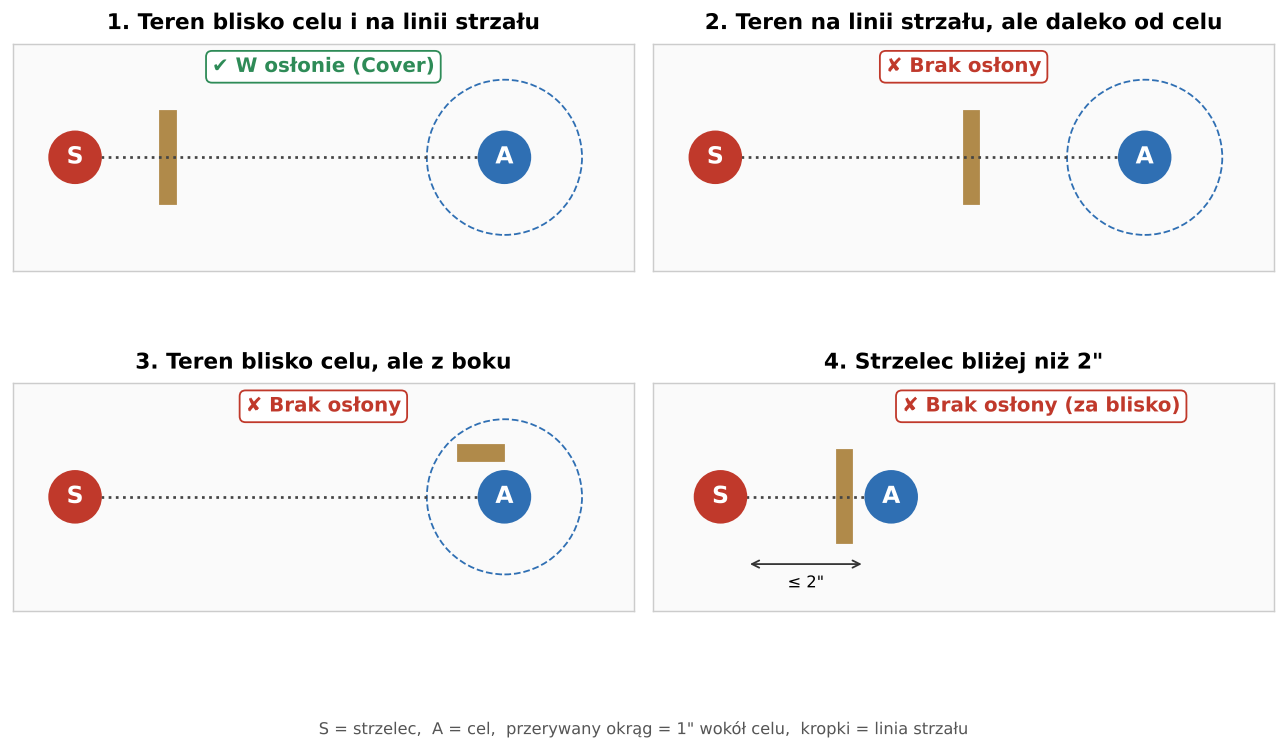
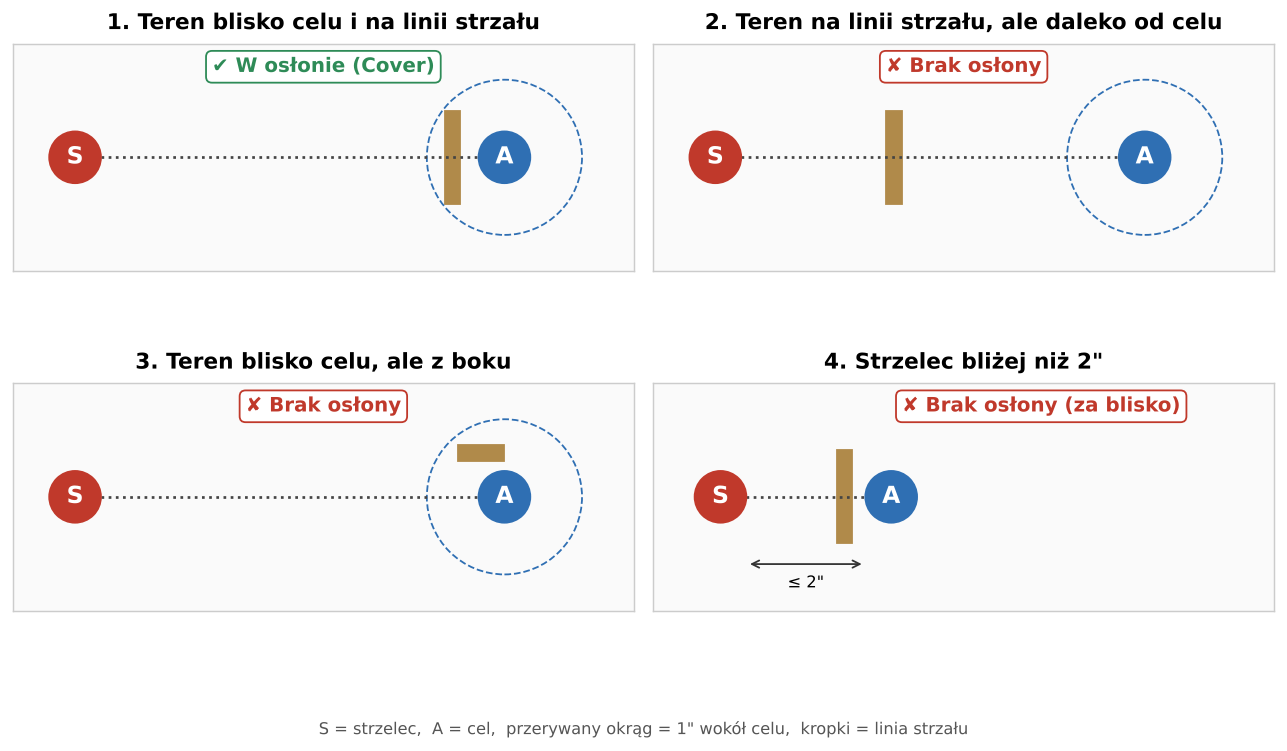
Audyt treści: tabela Kill Op, Drone Controller i Incursor Sergeant, poprawki porad
- 02_misje: pełna tabela poziomów eliminacji (Core Book s. 84) z przykładem
- Pathfinders: Drone Controller wraca na listę wyboru; premie ze znaczników tylko z broni z karty
- Phobos: Incursor Sergeant wraca jako dowódca (statystyki i broń)
- Fellgor: Breach obok Operate Hatch w wyjątkach
- Poprawione wskazówki w zasadach podstawowych, misjach i Kommandos
- AGENTS.md: opis oficjalnych zdjęć GW (tylko wiki), aktualny backlog
- .gitignore: wiki/ i prywatne skrypty

diff --git a/scripts/diagrams_core.py b/scripts/diagrams_core.py
@@ -71,9 +71,9 @@ save(fig, "01_control_range.png")
 # 2. COVER - 4 przypadki ----------------------------------------------------
 fig, axs = plt.subplots(2, 2, figsize=(10, 6.2))
 cases = [
-    ("1. Teren blisko celu i na linii strzału", 2.85, 2.2, True,
+    ("1. Teren blisko celu i na linii strzału", 8.35, 2.2, True,
      "W osłonie (Cover)"),
-    ("2. Teren na linii strzału, ale daleko od celu", 6.0, 2.2, False,
+    ("2. Teren na linii strzału, ale daleko od celu", 4.5, 2.2, False,
      "Brak osłony"),
     ("3. Teren blisko celu, ale z boku", 8.6, 0.25, False, "Brak osłony"),
     ("4. Strzelec bliżej niż 2\"", 2.85, 2.2, False,

diff --git a/AGENTS.md b/AGENTS.md
@@ -58,7 +58,7 @@ existing files use single-word names).
 ## Accuracy rules (must follow)
 
 1. **Never invent numbers.** If a value can't be confirmed from a source, leave a blank / say "sprawdź na
-   karcie". Example: the Kill Op grade table in `02_misje.md` is intentionally mostly empty.
+   karcie".
 2. **Write research notes first** into `research/` (English, terse), then write the Polish page from them.
    Cross-check every weapon/stat row in the page against the notes before finishing.
 3. **Source priority:** official GW PDFs / Kill Team app > Wahapedia (`wahapedia.ru/kill-team3/…`) >
@@ -72,7 +72,6 @@ existing files use single-word names).
 - Ploy CP costs: handbook states "1 CP" everywhere (3rd-ed standard) — not verified per ploy.
 - Approved Ops 2025 Crit/Tac Op descriptions are reconstructed (full card text is paywalled); some
   details deferred to "sprawdź na karcie" (Plant Banner distance, Track Enemy TP4 scoring, Rout TP limits).
-- Kill Op grade table: only the 8-enemy row (2 → grade 1, 3 → grade 2) is filled.
 
 ## Images
 
@@ -114,6 +113,12 @@ upload assets. The script is idempotent (unchanged pages are skipped). What it d
   unimplemented (pages are looked up by the cyrb53 hash of their path); Cloudflare blocks Python's default
   User-Agent. API reference: `https://kt.litwiniuk.net/_api` (Swagger), spec at `/_api/json`.
 - The theme lives in `wiki/` (see `wiki/README.md`); PATs can't set it, so it's applied in Admin → Theme.
+- **Official GW photos are wiki-only** (private wiki; this repo is public, so they never go into
+  `podrecznik/` or git). `wiki/official/manifest.json` + `wiki/official/parts/*.json` list image URLs per
+  page heading (team photo under "1. … w skrócie", one cut-out per operative H3, killzone photos); the
+  publisher downloads them (cache in `wiki/official/cache/`) and inserts them under those headings.
+  Sources: warhammer40000.com/games/faction/… pages (operative cut-outs) and Warhammer Community articles.
+  New team page → add its entries; a renamed heading breaks its image (the publisher warns).
 - The sidebar (site-wide menu) is maintained by hand in the wiki; the Oddziały submenu lists team pages.
 - Keep the source files free of wiki-specific syntax; do the conversion in the publish script.
 
@@ -127,14 +132,14 @@ Preview only.
 - All 17 team pages written (Nov 2026). Next: re-check each team page against the app when GW publishes a new
   balance update (each page states its rules version at the top).
 - Team-page items inferred or unverified (check in the app / physical cards):
-  - Wrecka Krew: Tanked Up in counteraction + Reckless Temperament Engage crit clause — follows Wahapedia wording.
   - Wrecka Krew: whether Demolisha's Detonate also damages the Demolisha itself.
   - Canoptek Circle: ranged/melee type of weapons inferred (isolator & part matter = ranged per Goonhammer).
   - Goremongers: Inciter "dual autopistols (point-blank)" treated as its melee profile (no Range, no other melee weapon).
   - Sanctifiers: Missionary appears twice in the selection list — unclear if two Missionaries are allowed.
   - Spectre Squad: Gunner melee listed as fists in the list but gun butt on the datacard (same stats).
-  - Pathfinders: Drone Controller struck out of selection; Phobos: Incursor Sergeant struck out (Oct '26 versions).
   - Tactics for Spectre, Vespid, Farstalker, Pathfinders, Battleclade, Goremongers, Sanctifiers, Celestian Insidiants,
     Murderwing are own synthesis from rules (no current review used).
-- Fill Kill Op table and verify ploy CP costs from the physical cards/app.
+- Verify ploy CP costs from the physical cards/app. (Kill Op table filled 23 Nov 2026 from Core Book p.84.)
+- Lesson from the Nov 2026 audit: Wahapedia fetches can misreport "struck through" operatives — confirm selection
+  changes against the official GW PDF before removing an operative.
 - Optionally replace the matplotlib diagrams 01–12 with nicer ones (Part B of `prompty_obrazki.md`).

diff --git a/podrecznik/02_misje.md b/podrecznik/02_misje.md
@@ -142,7 +142,7 @@ Każdą kartę zagrywa się jeden raz. Karty, których nie użyjesz, możesz trz
 
 > 💡 **Wskazówka:** Inicjatywa jest najważniejsza w rundach 2–4, bo wtedy liczy się, kto pierwszy dobiegnie do celu albo kto pierwszy strzeli. Nie wydawaj wszystkich kart w pierwszej rundzie.
 
-> 💡 **Wskazówka:** Inicjatywa to nie zawsze zaleta. Gracz bez inicjatywy dostaje **2 CP** zamiast 1, a jego ostatni żołnierz rusza się jako ostatni w rundzie — może zająć cel, gdy przeciwnik nie ma już czym odpowiedzieć.
+> 💡 **Wskazówka:** Inicjatywa to nie zawsze zaleta. Od drugiej rundy gracz bez inicjatywy dostaje **2 CP** zamiast 1. Jeśli oba oddziały mają tyle samo gotowych żołnierzy, to on aktywuje ostatniego żołnierza w rundzie — i może zająć cel, gdy przeciwnik nie ma już czym odpowiedzieć. Ale jeśli masz **mniej** żołnierzy niż przeciwnik, skończą ci się aktywacje wcześniej i ostatni ruch i tak należy do niego.
 
 ---
 
@@ -185,22 +185,26 @@ Ile wrogów trzeba pokonać, żeby wejść na kolejny poziom, zależy od tego, *
 
 ### Tabela poziomów eliminacji
 
-Dokładna tabela jest na karcie **Kill Op** w talii Approved Ops i w aplikacji Kill Team. Przepisz ją tutaj, żeby mieć ją zawsze pod ręką:
+Wybierz wiersz według tego, **ilu żołnierzy miał przeciwnik na początku bitwy**. Liczby w tabeli mówią, ilu wrogów musisz **łącznie** pokonać, żeby wejść na dany poziom.
 
 | Wrogów na początku | Poziom 1 | Poziom 2 | Poziom 3 | Poziom 4 | Poziom 5 |
 |---|---|---|---|---|---|
-| 5 | | | | | |
-| 6 | | | | | |
-| 7 | | | | | |
-| 8 | 2 | 3 | | | |
-| 9 | | | | | |
-| 10 | | | | | |
-| 11 | | | | | |
-| 12 | | | | | |
-| 13 | | | | | |
-| 14 | | | | | |
+| 5 | 1 | 2 | 3 | 4 | 5 |
+| 6 | 1 | 2 | 4 | 5 | 6 |
+| 7 | 1 | 3 | 4 | 6 | 7 |
+| 8 | 2 | 3 | 5 | 6 | 8 |
+| 9 | 2 | 4 | 5 | 7 | 9 |
+| 10 | 2 | 4 | 6 | 8 | 10 |
+| 11 | 2 | 4 | 7 | 9 | 11 |
+| 12 | 2 | 5 | 7 | 10 | 12 |
+| 13 | 3 | 5 | 8 | 10 | 13 |
+| 14 | 3 | 6 | 8 | 11 | 14 |
 
-W tabeli są wpisane tylko wartości potwierdzone w oficjalnym przykładzie: przy 8 wrogach poziom 1 osiągasz po 2 eliminacjach, a poziom 2 po 3. Resztę uzupełnij z karty.
+> **Przykład:** Grasz przeciwko 6 Legionistom (wiersz „6”). Pokonujesz pierwszego — wchodzisz na poziom 1 (+1 VP). Drugiego — poziom 2 (+1 VP). Trzeci nic nie daje, bo poziom 3 wymaga **4** pokonanych. Czwarty — poziom 3 (+1 VP).
+
+> ⚠ **Uwaga:** Jeśli jedną akcją pokonasz kilku wrogów (np. wybuchem), możesz przeskoczyć od razu kilka poziomów. Dostajesz wtedy 1 VP za **każdy** nowy poziom.
+
+Tabela pochodzi z podręcznika Kill Team (Core Book, misje Preliminary Ops, s. 84). Approved Ops używa tej samej zasady i tego samego przykładu (8 wrogów: poziom 1 przy 2 pokonanych, poziom 2 przy 3).
 
 > 💡 **Wskazówka:** Kill Op to jedyna operacja, w której przeciwnik może ci odebrać szansę na punkty, po prostu chowając się. Dobrze ukryty oddział z rozkazem Conceal jest bardzo trudny do zabicia.
 
@@ -455,7 +459,7 @@ Ola gra oddziałem z 10 żołnierzami. Kuba gra oddziałem z 6 elitarnymi wojown
 
 **Wygrywa Ola 15:11**, choć pokonała mniej wrogów niż Kuba.
 
-> Liczby w tym przykładzie są wymyślone, żeby pokazać sposób liczenia. W prawdziwej grze poziomy eliminacji sprawdzasz w tabeli z karty Kill Op.
+> Liczby w tym przykładzie są wymyślone, żeby pokazać sposób liczenia. W prawdziwej grze poziomy eliminacji sprawdzasz w [tabeli poziomów eliminacji](#tabela-poziomów-eliminacji).
 
 ---
 

diff --git a/podrecznik/07_oddzialy/pathfinders.md b/podrecznik/07_oddzialy/pathfinders.md
@@ -4,7 +4,7 @@
 
 [← Lista oddziałów](README.md) · [Spis podręcznika](../README.md)
 
-Zasady według oficjalnego dokumentu z października 2026. W tej wersji **Drone Controller jest skreślony z listy wyboru** — nie można go wziąć.
+Zasady według oficjalnego dokumentu z października 2026.
 
 ---
 
@@ -54,6 +54,7 @@ Zasady według oficjalnego dokumentu z października 2026. W tej wersji **Drone 
 | Weapons Expert (Ekspert od broni) — z *ion rifle* **albo** *rail rifle* | do 2 |
 | Blooded (Weteran) | 1 |
 | Transpectral Interference (Zakłócacz) | 1 |
+| Drone Controller (Operator dronów) | 1 |
 | Assault Grenadier (Grenadier szturmowy) | 1 |
 | Comms Specialist (Łącznościowiec) | 1 |
 | Medical Technician (Medyk) | 1 |
@@ -81,7 +82,7 @@ Większość Pathfinderów ma akcję:
 
 > ⚠ **Uwaga:** W jednej aktywacji żołnierz nie może podświetlić **jednego** wroga i strzelić do **innego**. (Wyjątek: dron MB3.)
 
-**Co dają znaczniki?** Gdy twój Pathfinder strzela do wroga ze znacznikami, dostaje wszystkie premie do tej liczby:
+**Co dają znaczniki?** Gdy twój Pathfinder strzela do wroga ze znacznikami **z broni ze swojej karty**, dostaje wszystkie premie do tej liczby:
 
 | Znaczniki | Premia |
 |---|---|
@@ -188,6 +189,14 @@ Broń: *pulse carbine* i *gun butt*.
 | Bionic arm (Bioniczne ramię) | 3 | 4+ | 3/4 | — |
 
 **Veteran** (Weteran): w rundzie, w której wybrałeś *Mont'ka*, w swojej aktywacji może korzystać z *Kauyon* zamiast tego (i odwrotnie).
+
+### Drone Controller (Operator dronów)
+
+Broń: *pulse carbine* i *gun butt*.
+
+**Drone Controller** (Operator dronów): dopóki jest na stole, twoje drony mają **Move o 2" większy**, a zagrywka *Saviour Protocols* kosztuje **0 CP**.
+
+**REMOTE PILOT** (Zdalne sterowanie), 1 AP: wybierz twojego drona. Wykonuje on od razu **jedną darmową akcję**, ale nie może się w niej ruszyć dalej niż 2". Według karty ta akcja może pominąć ograniczenie, które akcje wolno wykonywać dronom. Operator może to zrobić kilka razy w aktywacji, ale ten sam dron nie wykona tej samej darmowej akcji dwa razy w jednej aktywacji. Nie w zasięgu kontroli wroga.
 
 ### Transpectral Interference (Zakłócacz)
 
@@ -390,10 +399,10 @@ Statystyki jak MV1. Ma tylko *ram*.
 Nie — chyba że to dron MB3.
 
 **Czy znaczniki dają premię każdemu strzelcowi?**
-Tak, każdemu twojemu Pathfinderowi, który strzela do tego wroga — poza granatem termojądrowym. Strzelec wyborowy (*Inertial Dampener*) nie dostaje premii do trafiania, ale pozostałe premie — tak.
+Tak, każdemu twojemu Pathfinderowi, który strzela do tego wroga **z broni ze swojej karty**. Nie dostają ich więc granaty ze sprzętu uniwersalnego (np. *krak grenade*) ani granat termojądrowy (wyjątek zapisany na jego karcie). Strzelec wyborowy (*Inertial Dampener*) nie dostaje premii do trafiania, ale pozostałe premie — tak.
 
 **Czy mogę wziąć Drone Controllera?**
-Nie w wersji z października 2026 — jest skreślony z listy wyboru.
+Tak — to zwykła pozycja na liście 11 wyborów.
 
 **Ile znaczników traci wróg, gdy się rusza?**
 Jeden na aktywację, nawet jeśli wykona kilka akcji ruchu.

diff --git a/research/teams/phobos.md b/research/teams/phobos.md
@@ -1,6 +1,6 @@
 # PHOBOS STRIKE TEAM — Wahapedia kill-team3_ (version Oct '26; prev Nov '25). Official PDF eng_17-12 online rules.
 Archetypes: Infiltration, Recon.
-Selection: 6 ops. 1 leader: Infiltrator Sergeant, Reiver Sergeant (SI bolt pistol + combat knife OR bolt carbine + fists). Incursor Sergeant STRUCK THROUGH (not selectable in Oct '26). 5 from: Infiltrator Commsman/Helix Adept/Saboteur/Veteran/Voxbreaker/Warrior; Incursor Marksman/Minelayer/Warrior; Reiver Warrior (same weapon options). Each once except WARRIOR.
+Selection: 6 ops. 1 leader: Infiltrator Sergeant, Reiver Sergeant (SI bolt pistol + combat knife OR bolt carbine + fists). Incursor Sergeant ALSO selectable (audit 23 Nov 2026: official Oct '26 PDF p.5 lists 3 leaders; ktdash agrees; earlier Wahapedia fetch misread as struck). 5 from: Infiltrator Commsman/Helix Adept/Saboteur/Veteran/Voxbreaker/Warrior; Incursor Marksman/Minelayer/Warrior; Reiver Warrior (same weapon options). Each once except WARRIOR.
 Faction rules:
 - Omni-Scrambler (Strategic Gambit, if friendly INFILTRATOR in killzone): one enemy visible to a friendly INFILTRATOR or within 6" of VOXBREAKER; next firefight phase can't be activated/perform actions until opp completed activations = # friendly INFILTRATORs in killzone when used, or it's last to activate.
 - Terror: enemy within 3" of friendly REIVER +1AP for Pick Up Marker and mission actions; marker control: total APL of enemy contesters -1 if at least one within 3" of REIVER (not a stat change; stacks).
@@ -29,7 +29,7 @@ Datacards: all APL3 M7 Sv3+ 32mm. Sgts W13, others W12. Fists 4/3+/3/4 for all.
 - Infiltrator Veteran: Custom bolt carbine 4/3+/3/4: at end of Select Operatives choose up to two of Balanced, Lethal5+, Piercing Crits 1, Rending, Saturate.
 - Infiltrator Voxbreaker: MBC. Voxbreak: enemy within 6" -> opp can't re-roll attack/defence dice for it. AUSPEX SCAN 1AP: until next activation/incap, friendly shooting enemy within 8" of Voxbreaker: no obscured; INCURSOR shooter gains Seek Light. Not in enemy CR.
 - Infiltrator Warrior (WARRIOR): MBC. Vanguard: once/TP one friendly op with this rule Pick Up Marker or mission action -1AP.
-- Incursor Sergeant (struck): Occulus bolt carbine 4/3+/3/4 Saturate; Tactical Advantage.
+- Incursor Sergeant (LEADER, W13): Occulus bolt carbine 4/3+/3/4 Saturate; Tactical Advantage.
 - Incursor Marksman: Stalker marksman bolt carbine 4/2+/3/4 Lethal5+ Piercing1. Track Target: Guard in any killzone; can Guard in Conceal but order changes to Engage when interrupting.
 - Incursor Minelayer: Occulus bolt carbine Saturate. Haywire Mine: carries marker, can Pick Up it; can't place in enemy CR; removed if incap carrying & can't place. Proximity Mine: first time marker in another op's CR: remove, -1APL until end of its next activation, 2D3+3 dmg, if survives its action ends. Minelayer ignores.
 - Incursor Warrior: Occulus bolt carbine; Vanguard.

diff --git a/podrecznik/01_zasady_podstawowe.md b/podrecznik/01_zasady_podstawowe.md
@@ -621,7 +621,7 @@ Rozpatrywanie (zaczyna A, bo to on atakuje):
 3. **A:** blokuje zwykłym sukcesem zwykły sukces B.
 4. B nie ma już kości, więc A rozpatruje resztę: cios zwykłym sukcesem → B dostaje 4 obrażenia i ma −1 ran. **B zostaje wyeliminowany.**
 
-> 💡 **Czy A mógł zagrać lepiej?** Tak! Mógł w kroku 1 **zablokować krytyk B swoim krytykiem**. Wtedy B mógłby uderzyć tylko zwykłym sukcesem (3 obrażenia), A zadałby dwa ciosy po 4 (razem 8) i B też by zginął — a A straciłby tylko 3 rany zamiast 4. Zawsze się zastanów, czy lepiej bić, czy blokować!
+> 💡 **Czy A mógł zagrać inaczej?** Tak. Mógł w kroku 1 **zablokować krytyk B swoim krytykiem**. Wtedy B ma już tylko zwykły sukces i najlepiej zrobi, jeśli **zablokuje** nim jeden z dwóch zwykłych sukcesów A. A zada wtedy tylko jeden cios za 4 — B przeżyje z 4 ranami, ale A nie straci ani jednej rany. (Gdyby B zamiast tego uderzył, dostałby od A dwa ciosy po 4 i by zginął.) Co jest lepsze — zabić wroga od razu czy nie stracić ran? To zależy od sytuacji. Zawsze się zastanów, czy lepiej bić, czy blokować — i co odpowie przeciwnik!
 
 ---
 
@@ -769,7 +769,7 @@ Gdy wróg jest w twoim zasięgu kontroli:
 
 Żołnierz z APL 2 robi **Reposition + Shoot**. Kolejność jest dowolna: możesz najpierw wyjść zza rogu i strzelić, a możesz też strzelić i potem schować się za ścianę.
 
-> 💡 **Wskazówka:** „Strzel i schowaj się” to bardzo sprytny ruch. Zmień rozkaz na Engage, wychyl się, strzel, a potem odejdź za ciężką ścianę, gdzie wróg cię nie zobaczy.
+> 💡 **Wskazówka:** „Strzel i schowaj się” to bardzo sprytny ruch. Zacznij aktywację w miejscu, z którego **już widzisz** wroga (np. przy krawędzi ściany), zmień rozkaz na Engage, strzel, a potem odejdź za ciężką ścianę, gdzie wróg cię nie zobaczy. Jeśli najpierw musisz wyjść zza rogu, to z APL 2 starczy ci tylko na wyjście i strzał — na powrót potrzebujesz trzeciego AP.
 
 ### Chcę zaatakować wroga, który stoi daleko
 

diff --git a/podrecznik/07_oddzialy/phobos-strike-team.md b/podrecznik/07_oddzialy/phobos-strike-team.md
@@ -4,7 +4,7 @@
 
 [← Lista oddziałów](README.md) · [Spis podręcznika](../README.md)
 
-Zasady według wersji z października 2026. W tej wersji **Incursor Sergeant jest skreślony z listy wyboru** — nie można go wziąć jako dowódcy.
+Zasady według oficjalnego dokumentu z października 2026.
 
 ---
 
@@ -56,6 +56,7 @@ Twój oddział ma **6 żołnierzy**.
 **1 dowódca** — wybierz jednego:
 
 - **Infiltrator Sergeant** (Sierżant Infiltratorów),
+- **Incursor Sergeant** (Sierżant Najeźdźców),
 - **Reiver Sergeant** (Sierżant Łupieżców) — z bronią: *special issue bolt pistol* + *combat knife* **albo** *bolt carbine* + pięści.
 
 **5 żołnierzy** z tej listy:
@@ -189,6 +190,18 @@ Wybierasz: *bolt carbine* (z pięściami) **albo** *special issue bolt pistol* +
 **Grav-chute and Grapnel Launcher** (Spadochron i hak): każda wspinaczka liczy się jako **2"**, bez względu na wysokość. Przy zeskoku **nie liczysz wysokości** wcale.
 
 Zasady: *Tactical Advantage*.
+
+### Incursor Sergeant (Sierżant Najeźdźców) — dowódca
+
+| APL | Move | Save | Rany | Podstawka |
+|---|---|---|---|---|
+| 3 | 7" | 3+ | 13 | 32 mm |
+
+| Broń | Atk | Hit | Dmg | Cechy |
+|---|---|---|---|---|
+| Occulus bolt carbine (Karabinek z celownikiem Occulus) | 4 | 3+ | 3/4 | Saturate |
+
+Zasady: *Tactical Advantage*. Jako Incursor korzysta z *Multi-Spectrum Array* (wrogowie nie mogą być zasłonięci, gdy do nich strzela).
 
 ### Infiltrator Commsman (Łącznościowiec)
 
@@ -410,7 +423,7 @@ Tak. Zagrywka sprawdza tylko, czy żołnierz ruszał się **przed** strzałem.
 Kontra to nie aktywacja, więc ograniczenia z aktywacji (np. „nie w tej samej aktywacji co Charge”) jej nie dotyczą.
 
 **Czy mogę wziąć Incursor Sergeanta?**
-Nie w wersji z października 2026 — jest skreślony z listy wyboru.
+Tak. To jeden z trzech dowódców do wyboru (obok Infiltrator Sergeanta i Reiver Sergeanta).
 
 ---
 

diff --git a/podrecznik/07_oddzialy/fellgor-ravagers.md b/podrecznik/07_oddzialy/fellgor-ravagers.md
@@ -76,7 +76,7 @@ Wszyscy mają podstawkę **32 mm**.
 
 - Nie może dostać rozkazu **Conceal**.
 - Jest **ciężko ranny** (*injured*) — ma kary za rany.
-- **Nie może** wykonywać *Pick Up Marker*, akcji unikalnych (poza *Sweeping Blow* Vandala) ani akcji misji (poza *Operate Hatch*).
+- **Nie może** wykonywać *Pick Up Marker*, akcji unikalnych (poza *Sweeping Blow* Vandala) ani akcji misji (poza *Breach* i *Operate Hatch*).
 - Przy liczeniu kontroli celów i stref jego APL to zawsze **1**.
 - Może normalnie ruszać się, szarżować, walczyć i strzelać.
 
@@ -261,7 +261,7 @@ Do tego *autopistol*.
 
 **Tactual Hunter** (Łowca po dotyku — cecha broni): gdy walczy z wrogiem, który już się aktywował (*expended*) — po pierwszym ciosie krytykiem może **od razu zadać kolejny cios**, zanim odpowie przeciwnik.
 
-**Berserker** (Berserker): **nie może strzelać**. Może stanąć na wartę (*Guard*), ale wtedy przerywa wroga tylko walką. *Pick Up Marker* i akcje misji (poza *Operate Hatch*) kosztują go **1 AP więcej**.
+**Berserker** (Berserker): **nie może strzelać**. Może stanąć na wartę (*Guard*), ale wtedy przerywa wroga tylko walką. *Pick Up Marker* i akcje misji (poza *Breach* i *Operate Hatch*) kosztują go **1 AP więcej**.
 
 **Savage** (Dziki): pierwszy raz w aktywacji, gdy zawalczy i przeżyje — może od razu wykonać **darmowy Fight** przeciwko dowolnemu wrogowi. Między tymi walkami nie możesz użyć *Ruthless Rampage*.
 

diff --git a/podrecznik/07_oddzialy/kommandos.md b/podrecznik/07_oddzialy/kommandos.md
@@ -384,7 +384,7 @@ Boss Nob (Power klaw), Breacha Boy, Slasha Boy, Dakka Boy, Rokkit Boy, Burna Boy
 1. **Pierwsza runda — schowaj się.** Prawie wszyscy z rozkazem Conceal w osłonach. Snipa i Rokkit na dobrych pozycjach strzeleckich.
 2. **Runda 2 — SSSSHHHH!** Darmowy Dash dla ukrytych Orków. Zbliżasz się do wroga i do celów misji, zanim przeciwnik się ruszy.
 3. **Szarża z ukrycia.** Ork z Conceal szarżuje (*Throat Slittas*) i walczy. Z *KUNNIN' BUT BRUTAL* pierwszy cios jest krytykiem.
-4. **Comms Boy + szef.** *GET IT DUN!* i *LISTEN IN* dają dwóm Orkom APL 3. Ork z APL 3 może np. Charge + Fight + Reposition (z powrotem do osłony).
+4. **Comms Boy + szef.** *GET IT DUN!* i *LISTEN IN* dają dwóm Orkom APL 3. Ork z APL 3 może np. Dash + Charge + Fight albo Reposition + Shoot + Dash. Pamiętaj: po szarży nie wolno w tej samej aktywacji wykonać Reposition.
 5. **Breacha przez ścianę.** W trakcie szarży robi dziurę w cienkiej ścianie i atakuje wroga, który myślał, że jest bezpieczny.
 6. **KRUMP 'EM! na koniec rundy.** Darmowa walka, na którą przeciwnik nie może odpowiedzieć.
 7. **Grot na celu.** Grot w osłonie przy celu misji jest nie do zestrzelenia — a liczy się do kontroli celu.

diff --git a/research/teams/pathfinders.md b/research/teams/pathfinders.md
@@ -8,7 +8,7 @@ activations). DRONE CONTROLLER struck out in selection list (not available). Tac
 ## Selection (12): 1 Shas'ui (leader); 11 from list: Shas'la (any number), Blooded, Transpectral Interference, Assault
 Grenadier, Comms Specialist, Medical Technician, Weapons Expert (up to 2; ion rifle OR rail rifle + gun butt), Marksman,
 drones: MB3 Recon (counts as two selections), MV1 Gun, MV4 Shield, MV7 Marker, MV31 Pulse Accelerator, MV33
-Grav-inhibitor. Each once except Shas'la and Weapons Expert. Drone Controller struck out.
+Grav-inhibitor. Each once except Shas'la and Weapons Expert. Drone Controller IS selectable (audit 23 Nov 2026: official Oct '26 PDF p.6). Markerlight bonuses apply only to weapons on the shooter's datacard (official rule) — not universal grenades.
 Pulse weapons: burst cannon, pulse carbine, suppressed pulse carbine, twin pulse carbine.
 
 ## Faction rules

diff --git a/research/README.md b/research/README.md
@@ -14,7 +14,7 @@ before changing any number in the handbook.
 
 ## Known gaps
 
-- **Kill Op grade table** — not available in free sources. Only one confirmed data point (8 starting enemies: grade 1 at 2 kills, grade 2 at 3 kills).
+- **Kill Op grade table** — RESOLVED: transcribed from Core Book p.84 (photo from owner, 23 Nov 2026); see research/approved-ops-2025.md.
 - **Ploy CP costs** — free sources don't render the cost icons. Handbook assumes 1 CP (3rd-ed standard); unverified per ploy.
 - **Approved Ops card wording** — full card text is only in the paid deck/app; Crit/Tac Op descriptions are reconstructed from reviews + errata.
 - `teams/phobos.md` — notes collected, handbook page not written yet; CP costs missing.

diff --git a/research/approved-ops-2025.md b/research/approved-ops-2025.md
@@ -45,3 +45,7 @@ Martyrs: only first time each operative is incapacitated (ops set back up & inca
 Bheta-Decima Map 5: flipped board, changed drop zones.
 Stake Claim VP: "At the end of each turning point after the first:" ; Energy Cells VP "At the end of each turning point after the first, if friendly operatives ...".
 NOTE: full card texts not freely available; describe from Goonhammer review + errata; tell user to check cards.
+
+Kill grade table (Core Book p.84, Preliminary Ops; same rule/example as AO2025). Starting enemies: grades 1-5 (cumulative kills)
+5: 1 2 3 4 5 | 6: 1 2 4 5 6 | 7: 1 3 4 6 7 | 8: 2 3 5 6 8 | 9: 2 4 5 7 9
+10: 2 4 6 8 10 | 11: 2 4 7 9 11 | 12: 2 5 7 10 12 | 13: 3 5 8 10 13 | 14: 3 6 8 11 14
